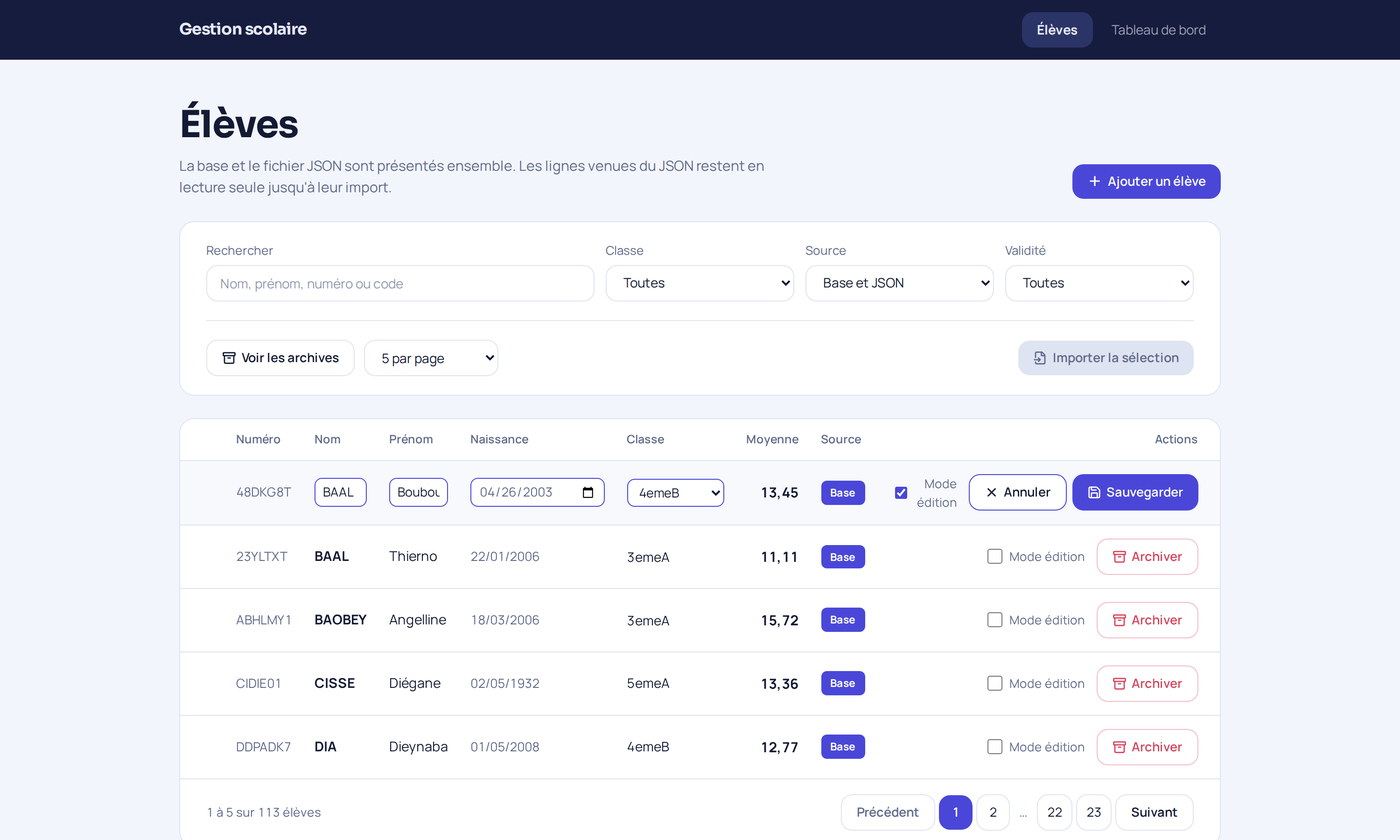
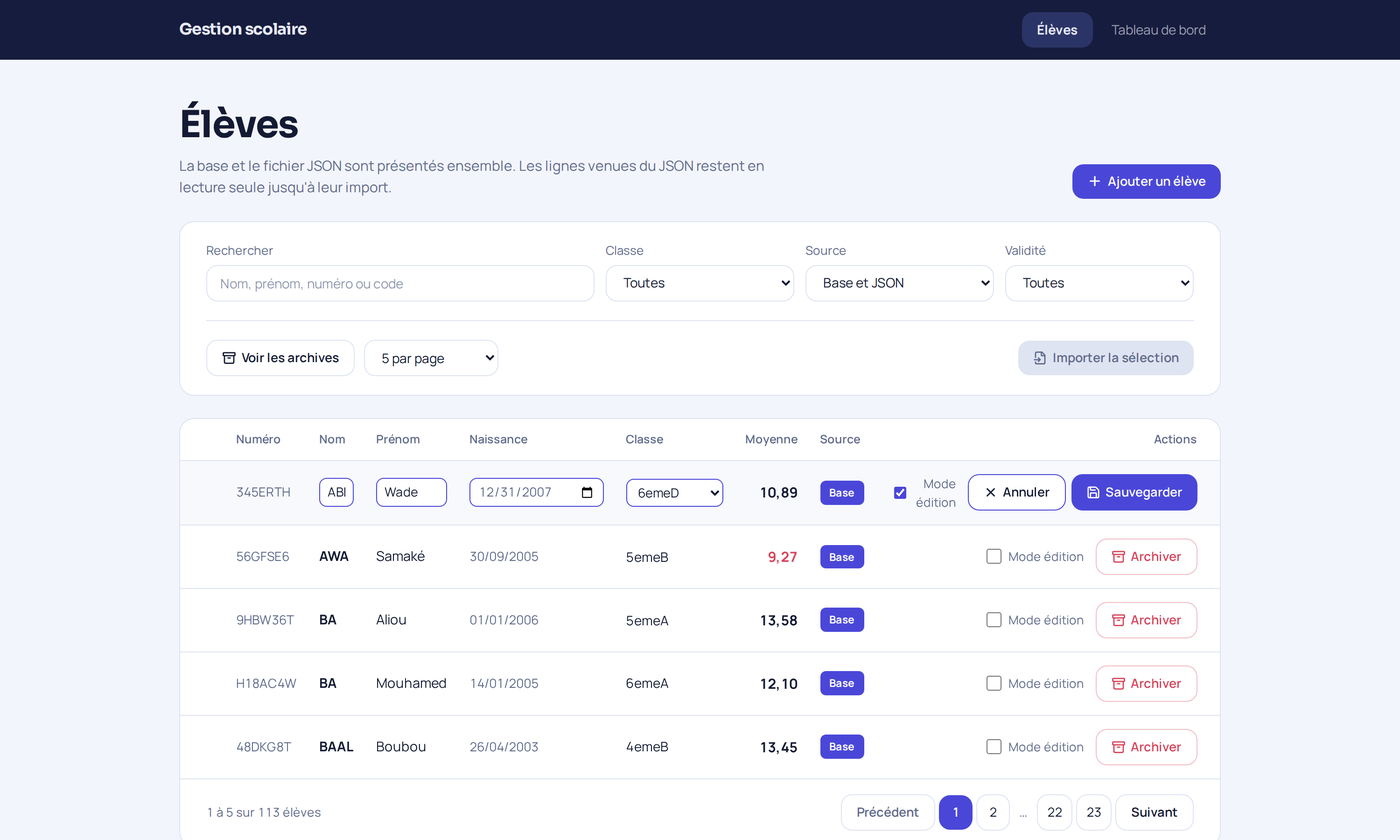
docs: captures issues d'un clone réel, échantillon de démonstration de la quarantaine

diff --git a/README.md b/README.md
@@ -206,6 +206,26 @@ python -m app.pipeline --fichier autre.json   # ou un autre fichier
 
 L'opération est idempotente : relancez-la sans crainte.
 
+Un échantillon volontairement non conforme accompagne le dépôt pour rendre la quarantaine vérifiable. Chacune de ses lignes viole une règle, et une seule :
+
+```bash
+python -m app.pipeline --fichier data/echantillon_invalide.json
+```
+
+Sept lignes sur huit partent en quarantaine, une par motif, et la huitième est chargée. Les rejets sont ensuite consultables dans le tableau de bord ou via `GET /api/v1/qualite/rejets`.
+
+### État reproduit par les captures
+
+Les copies d'écran de ce README proviennent d'un clone neuf, dans l'état produit par ces trois commandes :
+
+```bash
+python -m app.pipeline --limite 40                              # 40 lignes chargées
+# puis, depuis l'interface : sélection de 5 lignes JSON et import
+python -m app.pipeline --fichier data/echantillon_invalide.json # 7 rejets
+```
+
+Soit 46 élèves en base, 70 restés dans le JSON, 3 archivés, 7 lignes en quarantaine et 3 exécutions au journal.
+
 ### 4. Démarrer
 
 ```bash
